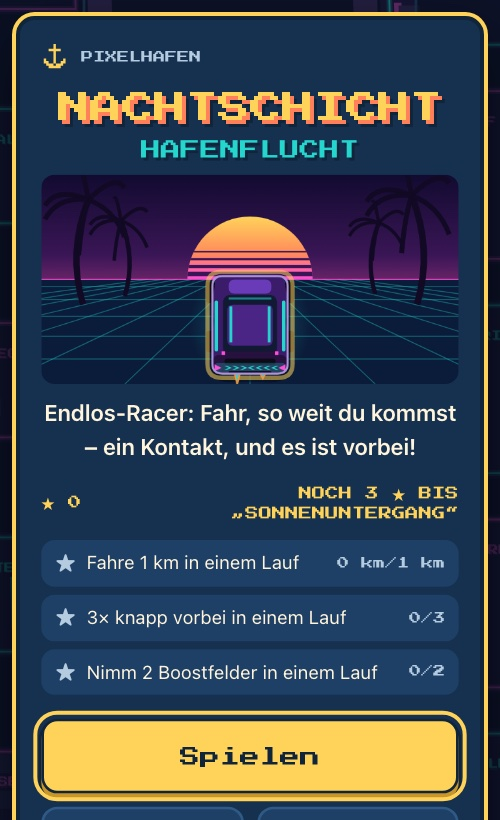
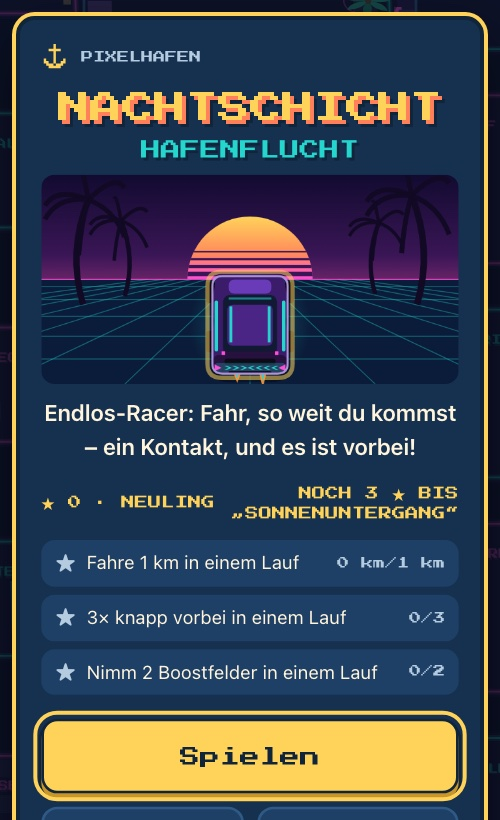
Nachtschicht: Fahrerränge und 14 Lackierungen in der Beschreibung

diff --git a/index.html b/index.html
@@ -697,7 +697,7 @@ const SPIELE = [
   {
     titel: 'NACHTSCHICHT: HAFENFLUCHT',
     beschreibung: 'Ein Endlos-Racer in der Neon-Draufsicht: Ein Tipp links oder rechts, und du bist eine Spur weiter – berührst du ein anderes Auto, ist die Fahrt vorbei. Knappe Manöver bauen eine Kombo bis ×8 auf, eine Neonlinie zeigt deinen Rekord, Aufgaben bringen Sterne für neue Lackierungen in der Garage. Mit jedem Kilometer wird es schneller und voller – nur noch eine Runde!',
-    merkmale: ['Endlos', 'Tagesfahrt', 'Kombo bis ×8', 'Aufgaben & Sterne', '6 Lackierungen', 'Immer schneller', 'Eigene 80er-Musik', 'Freunde-Rangliste'],
+    merkmale: ['Endlos', 'Tagesfahrt', 'Kombo bis ×8', 'Aufgaben & Sterne', 'Fahrerränge', '14 Lackierungen', 'Immer schneller', 'Eigene 80er-Musik', 'Freunde-Rangliste'],
     steuerung: 'Handy: links oder rechts tippen = eine Spur wechseln (freies Ziehen wählbar). Computer: Pfeiltasten oder A und D (ein Druck = eine Spur), Mausklick links oder rechts, P für Pause, M für Ton.',
     spielen: 'https://moje9328.github.io/nachtschicht/',
     download: 'https://moje9328.github.io/nachtschicht/index.html',
